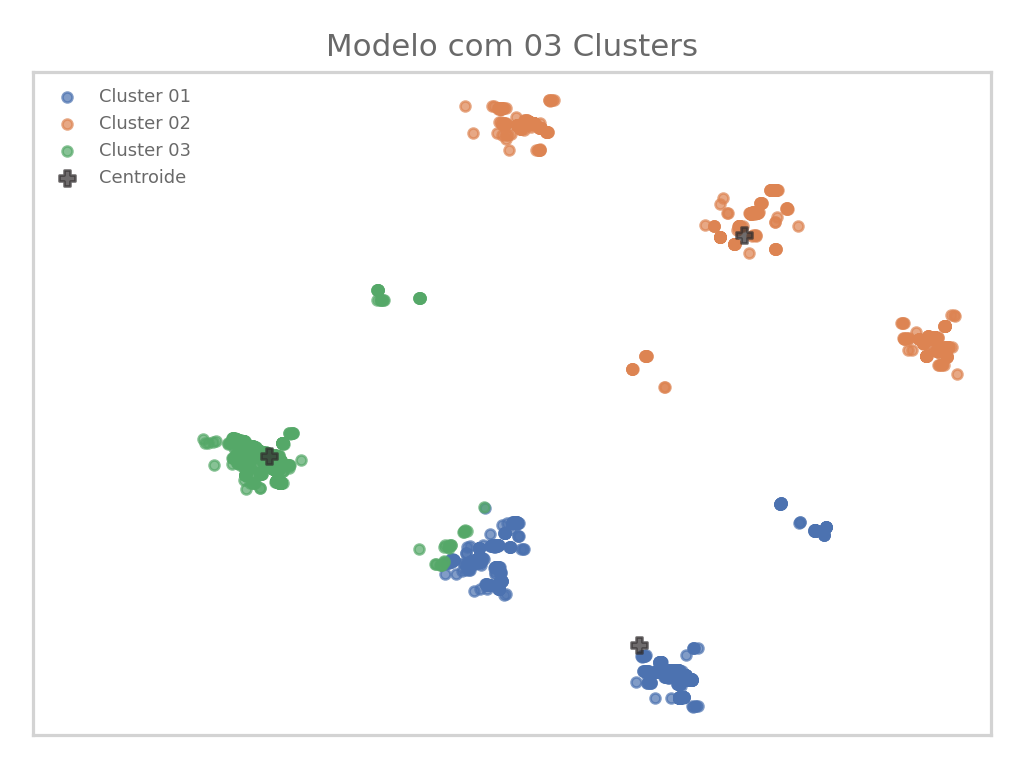
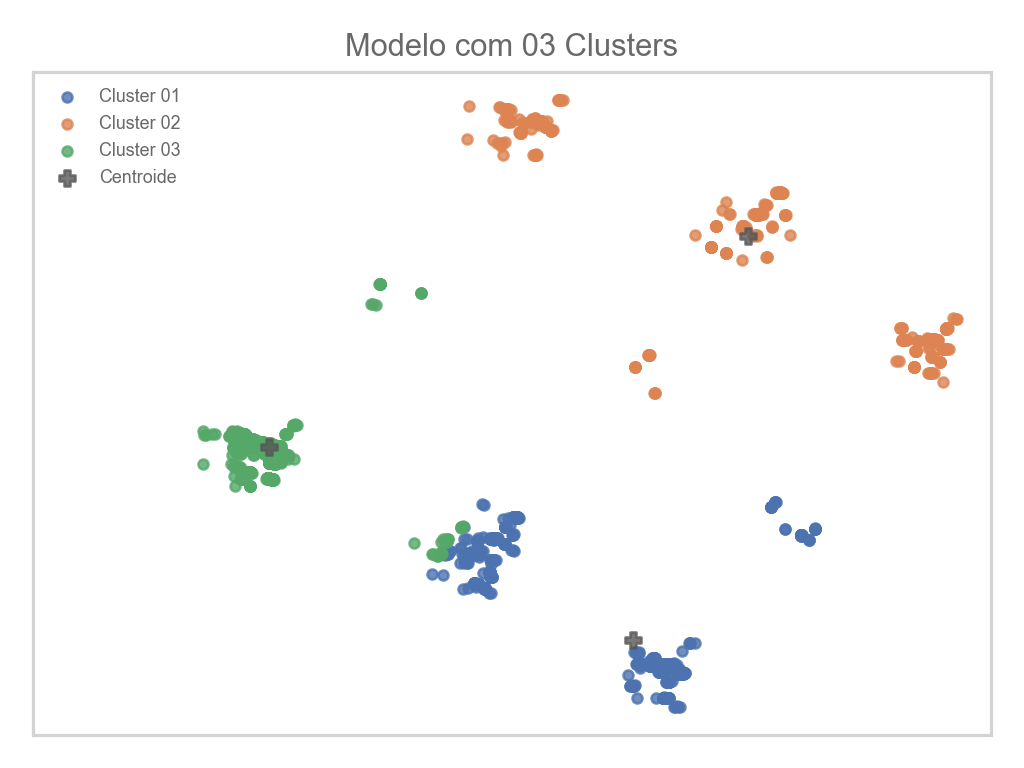
Entrega final de machine learning

diff --git a/machinelearning/finalproject/hypothyroid.py b/machinelearning/finalproject/hypothyroid.py
@@ -1,3 +1,5 @@
+from __future__ import annotations
+
 import dsutils
 import numpy
 import pandas
@@ -32,6 +34,11 @@ class HypoModel:
         self._kmeans = km
         self._inertia = km.inertia_
         self._distortion = ds
+        self._bestinertia = False
+        self._bestdistortion = False
+
+    def __eq__(self, other: HypoModel) -> bool:
+        return self.n_clusters == other.n_clusters
 
     @property
     def data(self) -> pandas.DataFrame:
@@ -74,6 +81,22 @@ class HypoModel:
     def inertia(self) -> float:
         return self._inertia
 
+    @property
+    def bestinertia(self) -> bool:
+        return self._bestinertia
+
+    @bestinertia.setter
+    def bestinertia(self, bestinertia) -> None:
+        self._bestinertia = bestinertia
+
+    @property
+    def bestdistortion(self) -> bool:
+        return self._bestdistortion
+
+    @bestdistortion.setter
+    def bestdistortion(self, bestdistortion) -> None:
+        self._bestdistortion = bestdistortion
+
     def scatter(self) -> pyplot.Figure:
         title = f'Modelo com {self.n_clusters:02} Clusters'
         dpi = 185
@@ -91,15 +114,28 @@ class HypoModel:
             data = self.data.assign(cluster=self.kmeans.labels_)
             data = data[data.cluster == c]
             label = f'Cluster {c + 1:02}'
-            ax.scatter(x='X', y='y', data=data, label=label, alpha=0.7, s=15)
+            ax.scatter(x='X', y='y', data=data, label=label, alpha=0.8, s=15)
 
         ax.scatter(self.kmeans.cluster_centers_[:, 0],
                    self.kmeans.cluster_centers_[:, 1],
                    marker=dsutils.DSPlot.marker.plus_filled,
-                   color=dsutils.DSPlot.color.black,
-                   alpha=0.7, label='Centroide')
+                   color=dsutils.DSPlot.color.darkgray,
+                   alpha=0.8, label='Centroide')
 
         ax.legend(frameon=False, loc='upper left', fontsize='xx-small')
+
+        if self.bestinertia:
+            ax.set_xlabel('Melhor modelo segundo o critério: inércia',
+                          fontsize='xx-small')
+
+        if self.bestdistortion:
+            if len(ax.get_xlabel()) > 0:
+                label = f'{ax.get_xlabel()} e distorção'
+            else:
+                label = 'Melhor modelo segundo o critério: distorção'
+
+            ax.set_xlabel(label, fontsize='xx-small')
+
         ax.set_xticks([])
         ax.set_yticks([])
         ax.set_title(title)
@@ -112,6 +148,7 @@ class HypoModelList:
 
     def __init__(self, n_models: int, data: pandas.DataFrame) -> None:
         models = []
+        n_models = numpy.arange(n_models) + 1
         data = data.hypo.nona
         data = data.hypo.normalized
         data = data.hypo.balanced
@@ -119,12 +156,23 @@ class HypoModelList:
         data = data.hypo.instances
         HypoModel.globaldata = data
 
-        for n in range(1, n_models + 1):
+        for n in n_models:
             models.append(HypoModel(n))
 
+        inertia = numpy.array([m.inertia for m in models])
+        distortion = numpy.array([m.distorcion for m in models])
+
+        optimalinertia = HypoModelList.elbow(n_models, inertia)
+        optimaldistortion = HypoModelList.elbow(n_models, distortion)
+        print(optimalinertia, optimaldistortion)
+
+        for model in models:
+            model.bestinertia = optimalinertia == model.n_clusters
+            model.bestdistortion = optimaldistortion == model.n_clusters
+
         self._models = models
-        self._inertia = numpy.array([m.inertia for m in models])
-        self._distortion = numpy.array([m.distorcion for m in models])
+        self._inertia = inertia
+        self._distortion = distortion
 
     @staticmethod
     def elbow(x: numpy.array, y: numpy.array) -> int:
@@ -134,7 +182,7 @@ class HypoModelList:
         num = abs((y2 - y1) * x - (x2 - x1) * y + x2 * y1 - y2 * x1)
         den = math.sqrt((y2 - y1) ** 2 + (x2 - x1) ** 2)
 
-        return numpy.argmax(num / den)
+        return x[int(numpy.argmax(num / den))]
 
     @property
     def models(self) -> list[HypoModel]:
@@ -148,15 +196,66 @@ class HypoModelList:
     def distortion(self) -> numpy.array:
         return self._distortion
 
-    def best_inertia(self) -> KMeans:
+    def model_inertia(self) -> KMeans:
         pass
 
-    def scatter(self) -> None:
+    def model_distortion(self) -> KMeans:
+        pass
+
+    def plot(self) -> None:
+        output = dsutils.datadir.join('plot_elbow.png')
+
+        nc = len(self.models)
+        x = numpy.arange(nc) + 1
+        y1 = self.inertia
+        y2 = self.distortion
+        dpi = 185
+
+        fig_elbow: pyplot.Figure
+        axinertia: pyplot.Axes
+        axdistortion: pyplot.Axes
+
+        fig_elbow, axinertia = pyplot.subplots()
+        fig_elbow.set_dpi(dpi)
+        fig_elbow.set_size_inches(1024 / dpi, 768 / dpi)
+        axdistortion = axinertia.twinx()
+
+        axinertia.set_title(f'Algoritmo Elbow para {nc:02} Clusters')
+
+        p1, = axinertia.plot(x, y1, label='inertia',
+                             color=dsutils.DSPlot.color.lipstick)
+
+        p2, = axdistortion.plot(x, y2, label='distortions',
+                                color=dsutils.DSPlot.color.azure)
+
+        axinertia.legend(handles=[p1, p2], frameon=False)
+
+        style = dict(textcoords='axes fraction',
+                     arrowprops=dict(facecolor=dsutils.DSPlot.color.gray,
+                                     alpha=0.5, shrink=0.02),
+                     fontsize='xx-small', alpha=0.8)
+
         for m in self.models:
+            if m.bestinertia:
+                bx = m.n_clusters
+                by = m.inertia
+                axinertia.annotate(f'optimal inertia ({bx}, {by:.2f})',
+                                   (bx, by), xytext=(0.6, 0.2), **style)
+
+            if m.bestdistortion:
+                bx = m.n_clusters
+                by = m.distorcion
+                axdistortion.annotate(f'optimal distortion ({bx}, {by:.2f})',
+                                      (bx, by), xytext=(0.6, 0.4), **style)
+
             n = m.n_clusters
             fname = dsutils.datadir.join(f'plot_model{n:02}.png')
-            fig = m.scatter()
-            fig.savefig(fname)
+            figcluster = m.scatter()
+            figcluster.savefig(fname)
+
+        axinertia.set_xticks(x)
+        fig_elbow.tight_layout()
+        fig_elbow.savefig(output)
 
 
 class Hypothyroid:
@@ -279,7 +378,7 @@ class Hypothyroid:
 
         style = dict(textcoords='axes fraction',
                      arrowprops=dict(
-                         facecolor=dsutils.DSPlot.color.black,
+                         facecolor=dsutils.DSPlot.color.grey,
                          alpha=0.5, shrink=0.02),
                      fontsize='xx-small', alpha=0.7)
 

diff --git a/dsutils/dsplot.py b/dsutils/dsplot.py
@@ -9,21 +9,22 @@ class DSPlot:
 
     @dataclass(frozen=True)
     class Color:
-        green1: str = '#004949'
-        pink1: str = '#FF6DB6'
-        purple1: str = '#490092'
-        purple2: str = '#b66dff'
-        blue1: str = '#006ddb'
-        green2: str = '#009292'
-        blue2: str = '#6db6ff'
-        red: str = '#920000'
-        pink2: str = '#ffb6db'
-        brown: str = '#924900'
-        orange: str = '#db6d00'
-        green3: str = '#24ff24'
-        yellow: str = '#ffff6d'
-        black: str = '#322E2F'
-        blue3: str = '#b6dbff'
+        yellow: str = '#ddb310'
+        darkgreen: str = '#005900'
+        lipstick: str = '#b80058'
+        azure: str = '#008cf9'
+        darkgray: str = '#585858'
+        green: str = '#006e00'
+        lavender: str = '#d163e6'
+        brown: str = '#b24502'
+        coral: str = '#ff9287'
+        darkblue: str = '#000078'
+        indigo: str = '#5954d6'
+        turquoise: str = '#00c6f8'
+        olive: str = '#878500'
+        jade: str = '#00a76c'
+        gray: str = '#bdbdbd'
+        darkpink: str = '#8a034f'
 
         def __iter__(self) -> Iterator[str]:
             for color in self.__dict__.values():

diff --git a/machinelearning/finalproject/__main__.py b/machinelearning/finalproject/__main__.py
@@ -110,5 +110,5 @@ if __name__ == '__main__':
     # model.scatter()
     # pyplot.show()
 
-    models = HypoModelList(15, df)
-    models.scatter()
+    models = HypoModelList(16, df)
+    models.plot()
